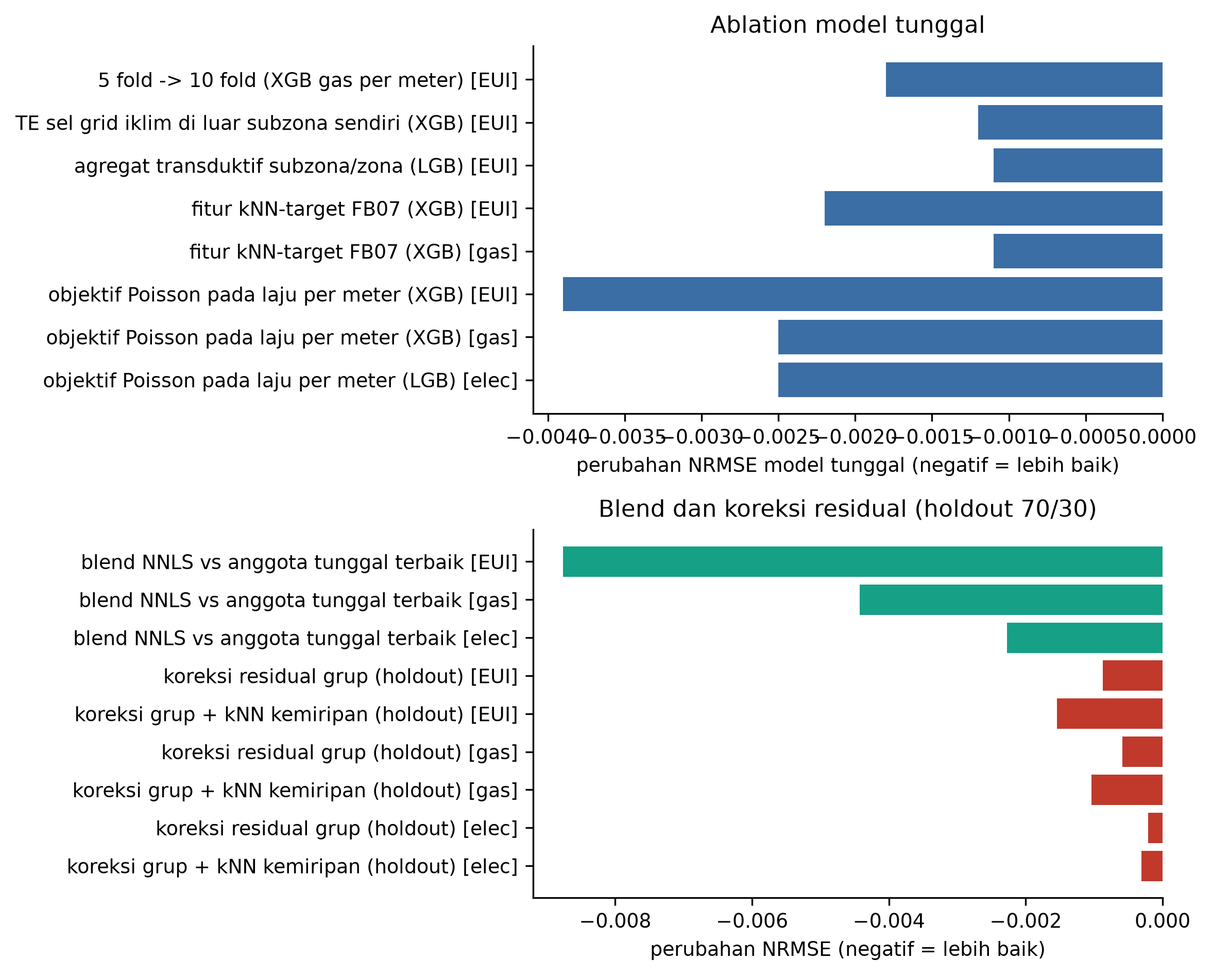
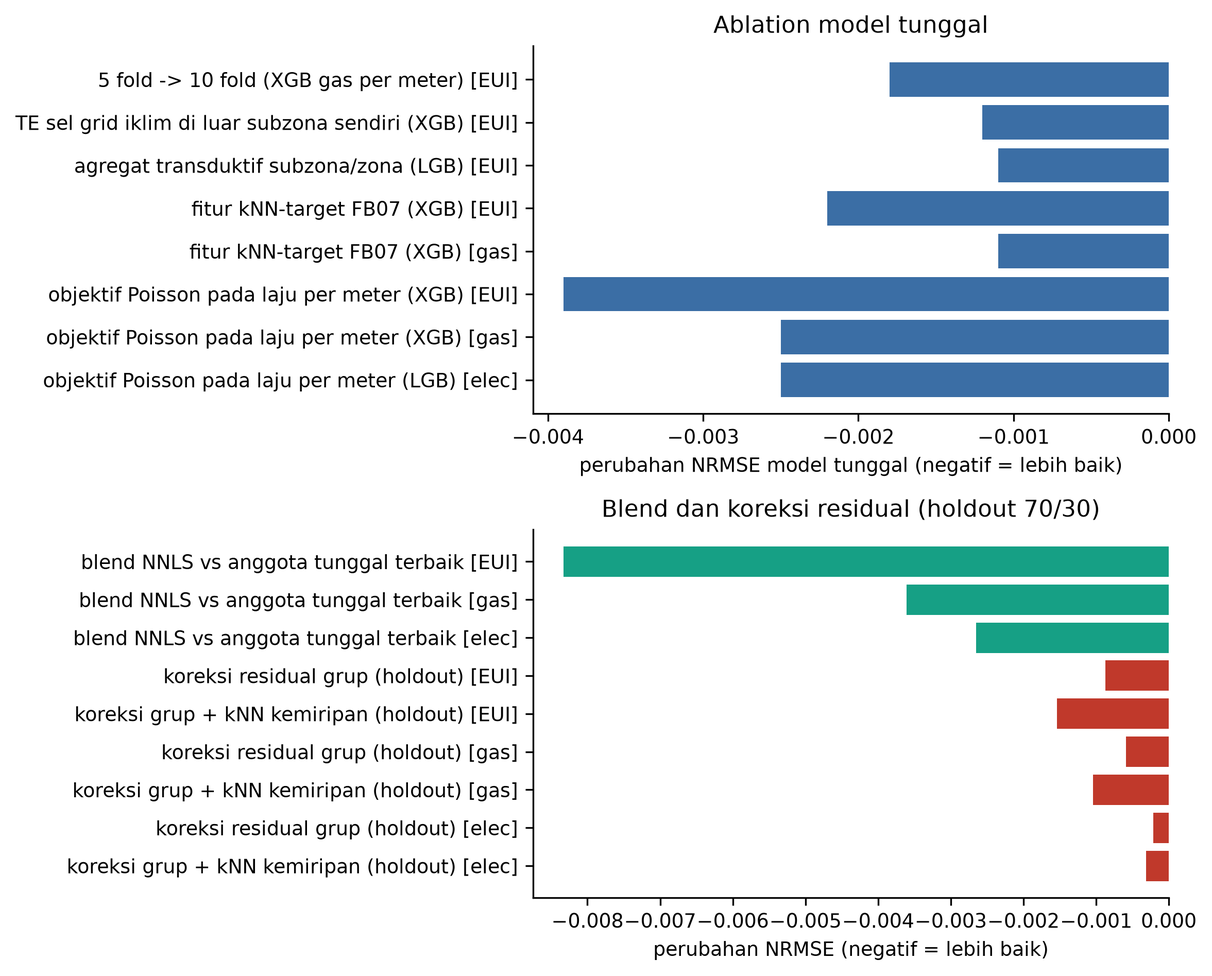
Phase 12: SHAP + policy section, density check of residual-correction weights (keep λ), writeup sections 5-8

diff --git a/src/exp_cv_secondary.py b/src/exp_cv_secondary.py
@@ -1,0 +1,75 @@
+"""CV_SECONDARY robustness check (MASTER_PROMPT V02): one LightGBM screening model (lr 0.1, early stopping on the
+validation fold) with and without the spatial target encodings, scored on CV_PRIMARY (KFold per row, mirrors the
+test split, D001) and on CV_SECONDARY (GroupKFold per zone_region_id, the organisers' suggestion).
+
+It shows how much of the score depends on regions seen in training: under the random row split 92% of test rows
+have their subzone in train, under the zone split none do.
+Outputs: exp/cv2/{oof,pred}/*.npy, exp/cv2/results.jsonl, registry rows E0271-E0278.
+usage: python src/exp_cv_secondary.py [--smoke]
+"""
+import json
+import os
+import sys
+import time
+
+import numpy as np
+import pandas as pd
+
+sys.path.insert(0, os.path.dirname(__file__))
+from common import TARGET_COLS, load, nrmse  # noqa: E402
+from tracking import data_hash, git_commit, now_wib, upsert  # noqa: E402
+from train_lib import Data, run  # noqa: E402
+
+SMOKE = "--smoke" in sys.argv
+OUT = "exp/cv2_smoke" if SMOKE else "exp/cv2"
+P = dict(objective="regression", learning_rate=0.1, num_leaves=255, min_data_in_leaf=100, feature_fraction=0.5,
+         bagging_fraction=0.8, bagging_freq=1, lambda_l2=10.0, max_bin=255, num_threads=12)
+if SMOKE:
+    P.update(learning_rate=0.3, num_leaves=31)
+
+tr, _ = load()
+d = Data(n_folds=5)
+ex, ext = d.agg_features()
+
+
+def folds_from(f):
+    x = pd.read_parquet(f)
+    assert (x["id"].values == tr["id"].values).all()
+    return [(np.where(x["fold"].values != k)[0], np.where(x["fold"].values == k)[0]) for k in sorted(x["fold"].unique())]
+
+
+SCHEMES = {"primary": folds_from("data/folds/folds_primary_k5_s42.parquet"),
+           "secondary": folds_from("data/folds/folds_secondary_k5_s42.parquet")}
+JOBS = [("gpm", 1 / d.A), ("epm", None)]  # gas per meter (weight M^2/A), elec per meter (weight M^2)
+eid = 271
+for scheme, folds in SCHEMES.items():
+    d.folds = folds[:2] if SMOKE else folds
+    for te in (False, True):
+        for kind, wmul in JOBS:
+            name = f"lgb_{kind}_{scheme}_{'te' if te else 'note'}"
+            t0 = time.time()
+            oof, _ = run(d, name, "lgb", kind, P, use_te=te, windows=(2, 10) if te else (), cells=te, out_dir=OUT,
+                         wmul=wmul, extra=ex, extra_t=ext, verbose=False)
+            idx = np.concatenate([b for _, b in d.folds])
+            if kind == "gpm":
+                sc = {"t1": nrmse(tr[TARGET_COLS[0]].values[idx], (oof * d.A)[idx], TARGET_COLS[0]),
+                      "t3": nrmse(tr[TARGET_COLS[2]].values[idx], oof[idx], TARGET_COLS[2])}
+            else:
+                sc = {"t2": nrmse(tr[TARGET_COLS[1]].values[idx], oof[idx], TARGET_COLS[1])}
+            rec = dict(name=name, scheme=scheme, te=te, kind=kind, minutes=round((time.time() - t0) / 60, 1), **sc)
+            print(json.dumps(rec), flush=True)
+            if SMOKE:
+                continue
+            with open(f"{OUT}/results.jsonl", "a") as fh:
+                fh.write(json.dumps(rec) + "\n")
+            upsert(dict(exp_id=f"E{eid:04d}", status="done", phase=2, finished_wib=now_wib(),
+                        hypothesis=f"CV_SECONDARY check: LGB {kind} {'dengan' if te else 'tanpa'} TE spasial, skema {scheme}",
+                        model_family="lgb", device="cpu", targets="t1,t3" if kind == "gpm" else "t2",
+                        target_transform=f"{kind} (ratio to bld_dim_12)", feature_set_id="legacy+agg" + ("+te" if te else ""),
+                        cv_scheme=scheme, fold_file=f"data/folds/folds_{scheme}_k5_s42.parquet", seeds=42,
+                        config_path="src/exp_cv_secondary.py", git_commit=git_commit(), data_hash=data_hash(),
+                        nrmse_t1=sc.get("t1", ""), nrmse_t2=sc.get("t2", ""), nrmse_t3=sc.get("t3", ""),
+                        runtime_min=rec["minutes"], oof_path=f"{OUT}/oof/{name}.npy", test_pred_path=f"{OUT}/pred/{name}.npy",
+                        notes="screening lr 0.1, early stopping on the validation fold (relative comparison only)"))
+            eid += 1
+print("done")

diff --git a/final/make_notebooks.py b/final/make_notebooks.py
@@ -10,12 +10,14 @@ import os
 import sys
 
 import nbformat as nbf
+import yaml
 
 HERE = os.path.dirname(os.path.abspath(__file__))
 TEAM = sys.argv[1] if len(sys.argv) > 1 else os.environ.get("TEAM_NAME", "ISI_NAMA_TIM")
 SRC = ["common.py", "te.py", "train_lib.py", "nn.py", "blend.py", "adopt_v2.py", "dup_fix.py", "postprocess.py",
        "pipeline.py", "inference.py", "metric.py", "seed.py"]
 CONF = ["members.yaml", "resid_knn.json"]
+N_MEMBERS = len(yaml.safe_load(open(os.path.join(HERE, "configs", "members.yaml")))["members"])
 
 SETUP = '''import os, sys, platform, hashlib, json, subprocess, time
 # ---- paths (edit DATA_DIR if the competition CSVs live elsewhere) ----
@@ -65,10 +67,10 @@ def full_notebook():
     nb.cells = [
         md(f"# DICE FEST 2026: The Urban Energy Transition Trilemma ({TEAM})\n\n"
            "Notebook ini mereproduksi submisi final secara deterministik dari `train.csv` dan `test.csv` saja.\n\n"
-           "Alur: 50 model cross-validated (XGBoost CUDA, LightGBM, MLP PyTorch) → blend NNLS per kolom → "
+           f"Alur: {N_MEMBERS} anggota model cross-validated (XGBoost CUDA, LightGBM, MLP PyTorch) → blend NNLS per kolom → "
            "model adopsi pemanas listrik → koreksi residual grup + kNN (bobot beku) → salin target 77 baris duplikat "
            "→ submisi + sha256.\n\n"
-           "Hardware referensi: NVIDIA RTX A4000 16 GB, 16 vCPU, RAM 24 GB. Waktu jalan sekitar 20 jam "
+           "Hardware referensi: NVIDIA RTX A4000 16 GB, 16 vCPU, RAM 32 GB. Waktu jalan sekitar 20 jam "
            "(jalur GPU dan CPU paralel). Untuk verifikasi cepat dari model tersimpan, pakai "
            "`inference_from_artifacts.ipynb`."),
         code(SETUP),

diff --git a/reports/WRITEUP_DRAFT.md b/reports/WRITEUP_DRAFT.md
@@ -11,11 +11,11 @@ Kunci pendekatan kami adalah memahami struktur data sebelum memilih model. Ada t
 - Data test diambil acak per baris, sehingga informasi tingkat wilayah dapat dipakai secara sah.
 
 Di atas fondasi itu kami membangun:
-- [[N_MEMBERS]] model cross-validated (XGBoost, LightGBM, dan MLP dengan embedding periodik);
-- blend non-negatif per kolom;
+- 34 anggota model cross-validated (XGBoost, LightGBM, dan beberapa varian MLP);
+- blend non-negatif per kolom yang dinilai secara nested;
 - koreksi residual berbasis kemiripan stok bangunan di sekitar setiap kawasan.
 
-Skor validasi silang jujur (nested) kami [[CV_FINAL]] dan public leaderboard [[LB_FINAL]]. Seluruh pipeline deterministik: dua run dari kondisi bersih dan satu eksekusi notebook menghasilkan file submisi dengan sha256 yang sama.
+Skor validasi silang nested kami 0,2496 sebelum koreksi residual (sekitar 0,2489 setelah koreksi, diestimasi di holdout internal), dan public leaderboard 0,24943. Sepanjang sepuluh submisi, public LB selalu sama dengan skor CV (ditambah estimasi holdout untuk post-processing) plus selisih tetap 0,0005 (simpangan baku 0,00004). Seluruh pipeline deterministik: run bersih dan eksekusi notebook menghasilkan file submisi dengan sha256 yang sama.
 
 ## 1. Pendahuluan dan pemahaman masalah
 Transisi energi di kota menghadapi tiga tarikan sekaligus:
@@ -29,7 +29,7 @@ Kelima target kompetisi memotret ketiga sisi itu:
 - kualitas stok bangunan (rasio bangunan bersih);
 - penetrasi teknologi baru (adopsi pemanas listrik).
 
-Metrik lomba adalah rata-rata RMSE tiap target dibagi simpangan baku bekunya. Karena dihitung per kolom, setiap target boleh punya pipeline sendiri, dan meminimalkan MSE tiap kolom sama dengan meminimalkan metrik. Prediksi konstan memberi skor sekitar 1,0 per target.
+Metrik lomba adalah rata-rata RMSE tiap target dibagi simpangan baku bekunya. Karena dihitung per kolom, setiap target boleh punya pipeline sendiri, dan meminimalkan MSE tiap kolom sama dengan meminimalkan metrik. Prediksi konstan memberi skor sekitar 1,0 per target. Pada model final kami, EUI menyumbang sekitar 52% galat, listrik 25%, gas 20%, dan adopsi 3%. Prioritas kerja kami mengikuti porsi itu.
 
 ## 2. Data dan eksplorasi
 Train berisi 429.303 baris dan test 183.987 baris. Ada 201 fitur anonim dalam lima keluarga (dimensi bangunan, era konstruksi, bauran pemanas, iklim, sosio-demografi) ditambah dua ID spasial: 330 zona dan sekitar 150 ribu subzona.
@@ -37,10 +37,10 @@ Train berisi 429.303 baris dan test 183.987 baris. Ada 201 fitur anonim dalam li
 Temuan yang paling menentukan arah pemodelan:
 1. **Identitas eksak.**
    - EUI dikali `bld_dim_06` sama dengan gas sampai presisi mesin (selisih relatif maksimum 7e-16). Jadi `bld_dim_06` adalah luas lantai, dan satu model gas sekaligus memberi EUI.
-   - Rasio bangunan bersih sama persis dengan round(100 x `bld_dim_02`/`bld_dim_01`, 2) di 100% baris.
+   - Rasio bangunan bersih sama persis dengan round(100 x `bld_dim_02`/`bld_dim_01`, 2) di 100% baris. Target ini dihitung, bukan diprediksi.
 2. **Adopsi pemanas listrik konstan di dalam subzona** (subzona adalah unit sensus). Bauran pemanas `hvac_dist_*` adalah pecahan cacah per jumlah rumah tangga N, sehingga N bisa direkonstruksi eksak sebagai penyebut terkecil yang membuat semua pecahan bulat. Adopsi sama dengan sisa kategori pemanas dikurangi satu kategori yang hilang.
-3. **Target makro didominasi ukuran kawasan.** Korelasi Spearman gas dengan luas lantai 0,92, dan listrik dengan jumlah meter 0,90. Sebaliknya, EUI hanya berkorelasi lemah dengan fitur tunggal (maksimum 0,18), dan EUI menyumbang sekitar dua pertiga skor tim mana pun.
-4. **Noise label besar.** Varians residual log mengikuti pola a + b/M (M = jumlah meter), khas rata-rata konsumsi rumah tangga. Sekitar tiga perempat varians residual adalah noise yang tidak bisa dijelaskan fitur, sehingga lantai skor dari fitur saja sekitar 0,21.
+3. **Target makro didominasi ukuran kawasan.** Korelasi Spearman gas dengan luas lantai 0,92, dan listrik dengan jumlah meter 0,90. Sebaliknya, EUI hanya berkorelasi lemah dengan fitur tunggal (maksimum 0,18).
+4. **Noise label besar dan terstruktur.** Varians residual log mengikuti pola a + b/M, dengan M jumlah meter (Gambar 2). Pola ini khas rata-rata konsumsi rumah tangga: bila konsumsi tiap rumah tangga bervariasi acak, varians relatif totalnya turun sebanding 1/M. Pada blend final, 73% varians residual gas dan 77% varians residual listrik adalah noise semacam ini, yang tidak bisa dijelaskan fitur apa pun. Lantai skor dari fitur saja sekitar 0,21.
 
 ## 3. Strategi validasi
 Sebelum memilih skema cross-validation, kami memeriksa bagaimana data test dibuat:
@@ -49,9 +49,9 @@ Sebelum memilih skema cross-validation, kami memeriksa bagaimana data test dibua
 - Porsi baris test di subzona yang tidak muncul di train adalah 8,14%, hampir sama dengan harapan split acak per baris (8,17%).
 - Adversarial validation (LightGBM) memberi AUC 0,50, artinya train dan test tidak bisa dibedakan.
 
-Kesimpulannya, test adalah sampel acak 30% per baris. Karena itu CV utama memakai KFold acak per baris (5 dan 10 fold, seed 42), dan statistik tingkat wilayah (target encoding subzona, zona, jendela spasial) sah dipakai selama dihitung out-of-fold.
+Kesimpulannya, test adalah sampel acak 30% per baris. Karena itu CV utama memakai KFold acak per baris (5 dan 10 fold, seed 42), dan statistik tingkat wilayah (target encoding subzona, zona, jendela spasial) sah dipakai selama dihitung out-of-fold. [[CV sekunder per zona: hasil E0271-E0278, seberapa besar skor bergantung pada wilayah yang terlihat di train.]]
 
-CV sekunder dengan fold per zona (saran panitia) kami laporkan sebagai uji ketahanan. Selisih CV dengan public leaderboard stabil di [[N_SUB]] submisi, dan urutan kandidat selalu sama.
+Bukti bahwa CV ini bisa dipercaya datang dari leaderboard (Gambar 3). Pada sepuluh submisi, public LB sama dengan CV nested ditambah estimasi holdout untuk post-processing, plus selisih tetap 0,00052 (simpangan baku 0,00004). Urutan kandidat di CV selalu sama dengan urutan di LB.
 
 ## 4. Rekayasa target dan fitur
 **Formulasi target.** Karena gas = EUI x luas, semua model keluarga gas memprediksi kuantitas per unit lalu dikalikan kembali. Pilihan unitnya beragam:
@@ -61,43 +61,104 @@ CV sekunder dengan fold per zona (saran panitia) kami laporkan sebagai uji ketah
 - per jumlah sertifikat energi;
 - logaritmanya.
 
-Bobot sampel diatur agar loss setara dengan MSE pada skala asli (misalnya bobot M²/A untuk gas per meter). Keragaman formulasi ini ternyata sumber keragaman ensemble terbesar.
+Bobot sampel diatur agar loss setara dengan MSE pada skala asli (misalnya bobot M²/A untuk gas per meter). Keragaman formulasi ini ternyata sumber keragaman ensemble terbesar. Kami juga menguji objektif Poisson (GLM laju dengan eksposur). Pada model tunggal GBM gain-nya besar (EUI 0,0039, gas 0,0025), tetapi di blend hanya 0,00004 karena ensemble sudah menyerap efek yang sama, sehingga tidak kami masukkan ke pipeline final.
 
 **Fitur.**
-- Rasio fisik (luas per meter, faktor bentuk).
-- Agregat transductive per subzona dan zona (jumlah baris, total luas, porsi baris).
+- Rasio fisik (luas per meter, luas per sertifikat, faktor bentuk).
+- Agregat transduktif per subzona dan zona dari baris train dan test (jumlah baris, total luas, porsi baris). Tidak memakai target.
 - Target encoding out-of-fold untuk subzona, zona, jendela ±2 dan ±10 nomor subzona (yang berurutan secara spasial), serta sel grid iklim di luar subzona sendiri.
 - **Fitur kNN-target (FB07):** rata-rata target dari k kawasan dengan stok bangunan paling mirip dalam jendela spasial. Pada XGBoost tunggal fitur ini menurunkan NRMSE gas 0,0011 dan EUI 0,0022, membaik di kelima fold.
 
 Semua fitur bertarget dihitung dengan cross-fitting dan lulus uji kebocoran: label baris validasi diacak, lalu fitur validasi diperiksa tetap identik.
 
 ## 5. Pemodelan
-[[Tabel keluarga model x target, jumlah anggota, waktu.]]
-- XGBoost (CUDA, deterministik), LightGBM (CPU, deterministic=True), dan MLP PyTorch dengan embedding periodik (PLR), TabM-mini, serta MLP multi-task yang mempelajari gas dan listrik bersamaan.
-- MLP dilatih dengan jumlah epoch tetap (one-cycle), tanpa memilih epoch dari fold validasi, sehingga OOF tetap jujur.
-- CatBoost GPU diuji dan kuat, tetapi tidak deterministik, sehingga dikeluarkan dari pipeline final dengan biaya CV sekitar 0,00001.
+Tabel 1 merangkum 34 anggota blend final. Satu MLP multi-task mempelajari gas dan listrik sekaligus, sehingga jumlah jaringan yang dilatih 33.
+
+**Tabel 1.** Anggota blend final per keluarga (NRMSE OOF; bobot = porsi bobot NNLS).
+
+| Keluarga | Anggota gas/EUI | Anggota listrik | Terbaik EUI (gas) | Terbaik listrik | Bobot gas / EUI / listrik |
+|---|---|---|---|---|---|
+| XGBoost (CUDA) | 12 | 5 | 0,6598 (0,2504) | 0,3221 | 43% / 52% / 20% |
+| LightGBM | 4 | 3 | 0,6602 (0,2504) | 0,3221 | 11% / 11% / 17% |
+| MLP | 2 | 1 | 0,6677 (0,2530) | 0,3213 | 8% / 4% / 6% |
+| MLP + embedding PLR | 3 | 1 | 0,6594 (0,2489) | 0,3189 | 29% / 19% / 18% |
+| TabM-mini | 0 | 1 | | 0,3199 | 0 / 0 / 11% |
+| MLP multi-task | 1 | 1 | 0,6593 (0,2490) | 0,3187 | 9% / 14% / 28% |
+
+- XGBoost memakai `hist` di CUDA dan LightGBM `deterministic=True`. 27 anggota dilatih 10-fold dan 7 anggota 5-fold, dengan split fold yang sama (KFold seed 42).
+- MLP (PyTorch) dilatih tiga seed dengan jumlah epoch tetap pada jadwal one-cycle, tanpa memilih epoch dari fold validasi, sehingga OOF tetap jujur. Varian PLR memakai embedding periodik untuk fitur numerik. TabM-mini memakai 16 adapter berbagi bobot.
+- CatBoost GPU diuji dan kuat, tetapi tidak deterministik antar run, sehingga dikeluarkan dari pipeline final. Biayanya di CV sekitar 0,00001.
 
 ## 6. Ensemble dan koreksi residual
-- Blend memakai non-negative least squares per kolom yang dinilai, dengan bobot dari prediksi OOF. Kami membandingkannya dengan hill climbing, rata-rata top-N, Ridge positif, stacking LightGBM, dan MLP level-2; [[hasil EN]].
-- Koreksi residual: residual OOF blend masih berkorelasi spasial. Prediksi test digeser oleh kombinasi linear rata-rata residual (yang di-shrink) dari zona yang sama, sel iklim yang sama, jendela ±30 subzona, dan k tetangga dengan stok bangunan paling mirip. Bobot kombinasinya di-fit pada holdout internal 70/30, tidak pada OOF penuh yang bias. [[gain holdout]].
-- Adopsi: untuk subzona yang ada di train, nilainya disalin. Untuk 8% baris di subzona baru, cacah kategori hilang dimodelkan secara binomial dengan LightGBM.
-- 77 baris test identik dengan baris train, dan targetnya disalin.
+**Blend.** Bobot non-negative least squares di-fit per kolom yang dinilai: gas dengan skala baris luas lantai, EUI dan listrik langsung. Anggota dipilih secara greedy maju-mundur dengan skor blend nested (bobot di-fit di fold lain, dinilai di fold yang tidak ikut fitting). Stacking level-2 dengan LightGBM, blend per kelompok ukuran kawasan, dan bobot dari holdout tidak lebih baik dari NNLS (selisih paling banyak 0,00006). Blend memperbaiki anggota tunggal terbaik sebesar 0,0083 pada EUI, 0,0036 pada gas, dan 0,0027 pada listrik.
+
+**Koreksi residual.** Residual OOF blend ternyata masih berkorelasi di antara kawasan yang berdekatan dan mirip stok bangunannya. Prediksi test digeser oleh kombinasi linear rata-rata residual (di-shrink n/(n+k)) dari:
+- zona yang sama dan sel iklim yang sama;
+- jendela ±30 nomor subzona;
+- k kawasan dengan stok bangunan paling mirip dalam jendela spasial (lima sampai enam konfigurasi ruang kemiripan, lebar jendela, dan k per metrik).
+
+Bobot kombinasinya di-fit pada holdout internal 70/30: baris holdout berperan sebagai baris test, dan tetangganya hanya diambil dari bagian 70% dengan residual OOF yang tidak pernah melihat label holdout. Bobot tidak di-fit di OOF penuh, karena di sana residual tetangga sudah tercemar lewat target encoding. Gain di holdout: gas 0,24643 → 0,24539, EUI 0,65115 → 0,64961, listrik 0,31508 → 0,31477, atau sekitar 0,0006 pada skor total (Gambar 5).
+
+**Adopsi dan duplikat.** Untuk subzona yang ada di train, nilai adopsi disalin. Untuk 8% baris di subzona baru, cacah kategori pemanas yang hilang dimodelkan sebagai binomial dengan LightGBM (objektif cross-entropy, bobot cacah, fitur N dan proporsi tetangga). Terakhir, 77 baris test identik dengan baris train pada subzona, jumlah meter, jumlah sertifikat, luas lantai, dan satu fitur sensus yang hampir unik. Semua 92 grup duplikat di train punya target identik, sehingga target baris itu disalin.
 
 ## 7. Hasil dan ablation
-[[Tabel: baseline B0-B6 di CV primer/sekunder, transform T0-T8, ablation keluarga fitur, model zoo, ensemble, CV vs LB.]]
+**Tabel 2.** Perkembangan dari baseline ke model final (NRMSE, CV primer 5-fold untuk baseline, nested 10-fold untuk final).
+
+| Model | t1 gas | t2 listrik | t3 EUI | t4 bersih | t5 adopsi | Rata-rata |
+|---|---|---|---|---|---|---|
+| B0 rata-rata | 1,0000 | 1,0000 | 1,0001 | 1,0001 | 1,0007 | 1,0002 |
+| B1 Ridge | 0,3114 | 0,3556 | 0,7929 | 0,2648 | 0,2759 | 0,4001 |
+| B4 XGBoost | 0,2631 | 0,3301 | 0,6865 | 0,0158 | 0,0950 | 0,2781 |
+| B6 MLP multi-output | 0,2654 | 0,3276 | 0,6903 | 0,0539 | 0,1478 | 0,2970 |
+| Final: blend nested | 0,2452 | 0,3161 | 0,6510 | 0 | 0,0357 | 0,2496 |
+| Final + koreksi residual (estimasi holdout) | | | | | | 0,2489 |
+
+Public LB model final: 0,24943.
+
+Ablation model tunggal yang paling berpengaruh (Gambar 5):
+- 10 fold dibanding 5 fold: EUI -0,0018, gas -0,0010 (lebih banyak data latih dan encoding subzona yang lebih kaya).
+- Target encoding sel grid iklim di luar subzona sendiri: EUI -0,0012.
+- Agregat transduktif subzona/zona: EUI -0,0011.
+- Fitur kNN-target: EUI -0,0022, gas -0,0011.
+- Objektif Poisson: EUI -0,0039, gas -0,0025, listrik -0,0025 (model tunggal), tetapi blend hanya -0,00004.
+
+Yang tidak berhasil (semua tercatat di registry):
+- Stacking level-2, blend per ukuran kawasan, dan blend terpisah untuk subzona baru.
+- Loss Poisson pada MLP (EUI memburuk 0,0045).
+- 20 fold dibanding 10 fold: OOF terlihat membaik, tetapi holdout tidak.
+- Koreksi residual lintas target (residual listrik untuk gas dan sebaliknya): gain nol.
+- Pencarian kebocoran (urutan ID, nilai gas "kembar", relasi rasio antar kolom): hanya 77 baris duplikat yang bisa dimanfaatkan.
 
 ## 8. Interpretasi kebijakan
-[[SHAP per keluarga fitur per target dan tiga dilema: skala vs intensitas termal (gas vs EUI), beban jaringan (listrik dan adopsi), kesenjangan adopsi dan tenure.]]
+Kami menghitung TreeSHAP pada 30 ribu baris validasi untuk model LightGBM per target (Gambar 6 sampai 8): log EUI (t3, sekaligus t1 = EUI x luas), log listrik per meter (t2), dan adopsi (t5). Rasio bangunan bersih (t4) adalah identitas eksak, jadi tidak perlu model. Nama fitur dianonimkan panitia, sehingga makna kolom di bawah ini kami simpulkan dari sebaran nilainya dan kami tulis sebagai dugaan.
+
+Porsi |SHAP| per keluarga fitur:
+
+| Target | Rasio fisik | Sosio-demografi | Target encoding spasial | Dimensi bangunan | Era bangunan | Bauran pemanas |
+|---|---|---|---|---|---|---|
+| t3 EUI | 25% | 25% | 19% | 10% | 11% | 2% |
+| t2 listrik per meter | 29% | 35% | 13% | 11% | 5% | 2% |
+| t5 adopsi | 45% (sisa pangsa pemanas) | 21% | 3% | 1% | 0% | 27% |
+
+**Dilema 1: skala vs intensitas termal (t1 vs t3).** Gas total terutama mengikuti ukuran kawasan (luas lantai dan jumlah meter). Sebaliknya, EUI turun tajam seiring luas per meter: kawasan dengan hunian kecil (sekitar 20 m² per meter) punya intensitas gas per m² lebih dari dua kali kawasan dengan hunian besar (200 m² per meter). Porsi bangunan era tertentu (`bld_era_09` dan `bld_era_15`) juga masuk fitur teratas. Implikasinya, program yang mengejar penurunan emisi absolut dan program yang mengejar efisiensi per m² akan memilih kawasan yang berbeda. Daftar prioritas sebaiknya dibuat terpisah untuk kedua tujuan itu.
+
+**Dilema 2: beban jaringan listrik (t2 dan t5).** Listrik per meter naik hampir linear dengan luas hunian per meter. Fitur sisa pangsa pemanas (100 dikurangi semua kategori `hvac_dist`, yang sebagian besar adalah pemanas listrik) juga termasuk pendorong utama. Kawasan dengan hunian besar dan pemanas listrik tinggi adalah kawasan dengan beban per meter terbesar, sehingga paling rawan kemacetan gardu ketika elektrifikasi pemanas dipercepat.
+
+**Dilema 3: kesenjangan adopsi (t5).** Adopsi pemanas listrik paling ditentukan oleh infrastruktur pemanas yang sudah ada. Setelah sisa pangsa pemanas, pendorong terkuat adalah `hvac_dist_02` (rata-rata 82%, kemungkinan pangsa pemanas gas sentral). Di kawasan dengan pangsa ini di bawah 40%, kontribusinya ke adopsi mencapai +5 sampai +15 poin persen, sedangkan di kawasan yang hampir sepenuhnya memakai gas kontribusinya negatif. Faktor sosio-demografi baru menyusul (21% porsi |SHAP|). Artinya, adopsi saat ini terkonsentrasi di kawasan yang memang belum terhubung kuat ke jaringan gas. Mendorong elektrifikasi di kawasan yang sangat bergantung pada gas butuh insentif yang berbeda dari kawasan yang sudah terbiasa dengan pemanas listrik.
+
+Keluarga sosio-demografi menyumbang seperempat sampai sepertiga porsi |SHAP| untuk EUI dan listrik. Konsumsi energi kawasan tidak hanya soal fisik bangunan, tetapi juga komposisi penghuninya.
 
 ## 9. Reproducibility
-- Seed dikunci di semua tahap, tidak ada batas waktu, dan versi paket dipin.
-- Notebook mandiri menyematkan seluruh kode.
-- Dua run bersih dan satu eksekusi notebook headless memberi sha256 [[SHA]].
-- Notebook kedua membuat ulang submisi yang sama dari model tersimpan dalam waktu jauh lebih singkat.
+- Seed dikunci di semua tahap (split, model, PyTorch), tidak ada batas waktu training, urutan kolom diambil dari list yang di-sort, dan versi paket dipin di `final/requirements.txt`.
+- Determinisme diuji per keluarga model: XGBoost CUDA, LightGBM CPU, dan semua varian MLP memberi hasil identik byte antar run. CatBoost GPU tidak, sehingga dikeluarkan.
+- `final/run_all.py` adalah satu pintu dari data mentah ke submisi. Notebook utama menyematkan seluruh kode sumber yang sama dan menjalankannya dari kondisi bersih.
+- Run bersih dan eksekusi notebook memberi sha256 [[SHA]], identik dengan submisi yang diunggah.
+- Notebook kedua membuat ulang submisi yang sama dari model tersimpan (dengan checksum) dalam waktu jauh lebih singkat, sebagai cadangan bila juri tidak bisa melatih ulang penuh.
 
 ## 10. Keterbatasan dan pengembangan
 - Sekitar 75% varians residual gas dan listrik berasal dari rata-rata rumah tangga yang tidak teramati. Perbaikan berikutnya butuh data per rumah tangga, bukan model yang lebih besar.
-- Pipeline penuh butuh [[jam]] di satu GPU.
+- Interval prediksi per kawasan bisa diturunkan langsung dari pola a + b/M. Ini berguna bagi perencana jaringan untuk mengetahui kawasan mana yang prediksinya kurang pasti.
+- Pipeline penuh butuh [[jam]] di satu GPU RTX A4000. Untuk penggunaan operasional, subset anggota dengan bobot terbesar memberi hampir seluruh skor dengan waktu jauh lebih singkat.
 
 ## 11. Kesimpulan
-[[ringkasan]]
+Skor kami datang dari tiga keputusan. Pertama, mencari struktur fisik sebelum memodelkan: dua target selesai tanpa model, dan gas serta EUI berbagi satu model. Kedua, membangun validasi yang meniru cara test dibuat, lalu membuktikannya di leaderboard: selisih CV dan LB tetap di sepuluh submisi. Ketiga, menilai setiap komponen secara jujur, dari bobot blend yang nested sampai bobot koreksi residual yang di-fit di holdout. Dengan sekitar tiga perempat galat tersisa berupa noise rata-rata rumah tangga, kami yakin skor ini dekat dengan batas yang bisa dicapai dari data yang tersedia.

diff --git a/reports/PRESENTATION_OUTLINE.md b/reports/PRESENTATION_OUTLINE.md
@@ -39,7 +39,7 @@ Figur ada di `reports/figures/` (300 dpi). Angka bertanda [[...]] diisi setelah 
 
 ### Slide 6. Ensemble dan koreksi residual (1,5 menit)
 - [[N_MEMBERS]] anggota: XGBoost, LightGBM, MLP, MLP dengan embedding periodik (PLR), TabM-mini, MLP multi-task.
-- Blend NNLS per kolom, dinilai secara nested. Blend memperbaiki anggota terbaik: EUI 0,0088, gas 0,0044, listrik 0,0023.
+- Blend NNLS per kolom, dinilai secara nested. Blend memperbaiki anggota tunggal terbaik: EUI 0,0083, gas 0,0036, listrik 0,0027.
 - Koreksi residual: residual blend masih berkorelasi antar kawasan yang mirip dan berdekatan. Prediksi digeser oleh rata-rata residual (di-shrink) dari zona, sel iklim, jendela subzona, dan k tetangga paling mirip. Bobotnya di-fit di holdout internal 70/30, bukan di OOF penuh yang bias.
 - Figur: `fig4_blend_weights.png`, `fig5_gains.png` (panel bawah).
 
@@ -50,10 +50,11 @@ Figur ada di `reports/figures/` (300 dpi). Angka bertanda [[...]] diisi setelah 
 - Figur: `fig3_cv_lb.png`.
 
 ### Slide 8. Insight kebijakan (1,5 menit)
-- [[Isi dari SHAP per keluarga fitur, figur shap_t3.png, shap_t2.png, shap_t5.png]]
-- Dilema 1, skala vs intensitas termal: gas total digerakkan ukuran kawasan (luas lantai, jumlah meter), sedangkan EUI digerakkan [[keluarga utama EUI]].
-- Dilema 2, beban jaringan listrik: [[pendorong listrik per meter dan kaitannya dengan adopsi pemanas listrik]].
-- Dilema 3, kesenjangan adopsi: [[pendorong adopsi, tenure dan sosio-demografi]].
+- Figur: `shap_t3.png`, `shap_dep_t3.png`, `shap_dep_t5.png` (TreeSHAP LightGBM, 30 ribu baris validasi).
+- Dilema 1, skala vs intensitas termal: gas total mengikuti ukuran kawasan, tetapi EUI turun tajam dengan luas hunian per meter. Kawasan hunian kecil punya intensitas gas per m² lebih dari dua kali kawasan hunian besar. Prioritas "emisi absolut" dan "efisiensi per m²" memilih kawasan yang berbeda.
+- Dilema 2, beban jaringan: listrik per meter naik hampir linear dengan luas hunian dan dengan pangsa pemanas listrik. Kawasan hunian besar dengan pemanas listrik tinggi paling rawan kemacetan gardu saat elektrifikasi dipercepat.
+- Dilema 3, kesenjangan adopsi: adopsi pemanas listrik paling ditentukan infrastruktur pemanas yang sudah ada (pangsa pemanas gas sentral di bawah 40% menambah adopsi 5 sampai 15 poin). Sosio-demografi baru menyusul (21% porsi |SHAP|).
+- Catatan pembicara: sebut bahwa nama fitur dianonimkan, jadi makna kolom adalah dugaan dari sebaran nilai. Keluarga sosio-demografi menyumbang seperempat sampai sepertiga porsi |SHAP| untuk EUI dan listrik: konsumsi energi bukan hanya soal fisik bangunan.
 
 ### Slide 9. Kesimpulan dan pengembangan (30 detik)
 - Tiga pelajaran: (1) cari struktur fisik dulu, (2) bangun validasi yang meniru test lalu buktikan dengan LB, (3) nilai ensemble dan post-processing secara jujur.
@@ -92,7 +93,7 @@ Figur ada di `reports/figures/` (300 dpi). Angka bertanda [[...]] diisi setelah 
     Saat fitting bobot, baris holdout berperan sebagai baris test: tetangganya hanya diambil dari bagian 70%, dengan residual OOF yang tidak pernah melihat label holdout. Saat inferensi, tetangga diambil dari residual OOF train. Bobot tidak pernah di-fit di OOF penuh karena di sana residual tetangga sudah tercemar lewat target encoding.
 
 11. **Insight kebijakan apa yang didapat?**
-    [[Diisi dari SHAP: tiga dilema.]]
+    Tiga hal. Intensitas gas per m² paling tinggi di kawasan hunian kecil, jadi target efisiensi dan target emisi absolut perlu daftar prioritas berbeda. Beban listrik per meter paling besar di kawasan hunian besar dengan pemanas listrik, yang perlu diperhatikan saat elektrifikasi pemanas dipercepat. Adopsi pemanas listrik saat ini lebih ditentukan oleh infrastruktur gas yang sudah ada daripada faktor sosio-demografi, sehingga kawasan yang sangat bergantung pada gas butuh insentif khusus.
 
 12. **Berapa lama pipeline berjalan dan butuh hardware apa?**
     [[jam]] di satu RTX A4000 16 GB dan 16 core CPU. Notebook kedua membuat ulang submisi yang sama dari model tersimpan dalam waktu jauh lebih singkat.

diff --git a/reports/STATUS.md b/reports/STATUS.md
@@ -1,23 +1,21 @@
-# STATUS (diperbarui: 2026-10-17 09:00 WIB)
+# STATUS (diperbarui: 2026-10-17 11:25 WIB)
 STATUS: BERJALAN
-Fase aktif / gerbang berikutnya: Fase 11 (run #1 final v16) + Fase 3/8 (A/B Poisson) / G2 17 Okt malam
-Fase selesai: Fase 0, Fase 1; FREEZE v16 (D006, tag freeze-v16)
-Insiden: 16 Okt ~20:40 WIB run #1 + E0260 kehabisan RAM (24 GB), container restart ~00:00. RAM sekarang 32 GB.
+Fase aktif / gerbang berikutnya: Fase 11 (run #1 final v16) + Fase 12 (figur, SHAP, writeup, presentasi) / G2 17 Okt malam
+Fase selesai: Fase 0, Fase 1; FREEZE v16 (D006, tag freeze-v16); v17 Poisson ditolak (D007)
+Insiden: 16 Okt ~20:40 WIB run #1 + E0260 kehabisan RAM (24 GB), container restart ~00:00. RAM sekarang 32 GB. 17 Okt 04:05 semua job nohup mati serentak.
 Job berjalan:
-- run #1 final v16: unit systemd dice-run1 (resume 08:55 WIB setelah job mati serentak 04:05), log logs/run1.log + final/work/run1/lane_*.log, output final/output/submission_run1.csv
-- A/B Poisson E0260-E0265 SELESAI: Poisson menang (LGB E0262, XGB E0264/E0265)
-- anggota Poisson v17 (GPU): unit systemd dice-v17, logs/v17_pois_chain.sh, status logs/v17_pois_guard.log, log logs/v17_<mode>_<name>.log
+- run #1 final v16: unit systemd dice-run1, jalur GPU dilanjutkan 11:11 (dijeda 02:24-11:11 untuk v17), jalur CPU selesai. Log logs/run1.log + final/work/run1/lane_*.log, output final/output/submission_run1.csv. Sisa: 14 anggota XGB + 7 NN, ETA sekitar 21:30 WIB.
+- SHAP (src/interpret.py): unit dice-shap, log logs/interpret.log
 - queue worker CPU/GPU: STOP (sengaja, selama run audit)
-Cek job: systemctl status dice-run1 dice-v17. Selalu luncurkan job panjang dengan systemd-run (nohup setsid ikut terbunuh).
-Catatan lingkungan: nvidia-smi gagal (NVML 595 vs kernel 580), tetapi torch/XGBoost CUDA berjalan (A4000, 16,6 GB free).
-Terbaik CV_PRIMARY: v16 blend honest 0,242467 (34 anggota) | t1 0,2452 | t2 0,3157 | t3 0,6517 | t4 0 | t5 sekitar 0,036
-Holdout rantai penuh v16 (blend + koreksi grup/kNN): gas 0,24539, EUI 0,64961, elec 0,31477 (ekspektasi LB sekitar 0,2490)
-BEST_CURRENT.csv: sub_v16dev, sha256 e9375ba6...9a7f, public LB 0,24943 (terbaik; v15ncrkd 0,24954)
-Kompetitor di public LB: 0,23666 (user, 17 Okt dini hari).
+Cek job: systemctl status dice-run1. Selalu luncurkan job panjang dengan systemd-run (nohup setsid ikut terbunuh).
+Terbaik CV_PRIMARY: ENS0018 v16 blend honest 0,24960 (5 target) | t1 0,24524 | t2 0,31608 | t3 0,65101 | t4 0 | t5 0,0357
+Holdout rantai penuh v16 (blend + koreksi grup/kNN): gas 0,24539, EUI 0,64961, elec 0,31477
+BEST_CURRENT.csv: sub_v16dev, sha256 e9375ba6...9a7f, public LB 0,24943 (peringkat 6 public; klaster legit 0,248-0,250)
+Figur Fase 12: reports/figures/fig1-fig5 (src/make_figures.py); outline presentasi: reports/PRESENTATION_OUTLINE.md
 5 langkah berikutnya:
 1. Pantau run #1 (final/work/run1/lane_*.log); setelah selesai bandingkan submission_run1.csv dengan sub_v16dev (sha256 harus identik)
-2. Anggota Poisson v17 (src/exp_v17_pois.py): rantai GPU logs/v17_pois_chain.sh (xp_gpm, xp_eui, xp_epm; full + hold), status logs/v17_pois_guard.log; lp_gpm, lp_epm setelah jalur CPU run #1 selesai
-3. Holdout: fit ulang λ (src/resid_knn.py fit), seleksi anggota (exp/analysis/select_v16.py versi v17), bandingkan rantai penuh v17 vs v16
-4. Bila v17 lebih baik: freeze v17 (members.yaml + resid_knn.json), notebook headless + run_all, paling lambat mulai 18 Okt
-5. Paket final, laporan Fase 12
-Risiko / blocker / NEEDS_USER: TEAM_NAME belum diisi; format writeup di guidebook Drive tidak terbaca
+2. Nama tim (NEEDS_USER) -> make_notebooks.py, lalu notebook headless sebagai run kedua (sekitar 20 jam GPU)
+3. Writeup: isi bagian 5-8 dan 11 (tabel model, hasil ablation, SHAP, kesimpulan), FINAL_REPORT.md
+4. Final B: varian dari run yang sama (mis. tanpa koreksi kNN) atau v15nc; putuskan D-FINAL
+5. Paket final + checklist NEEDS_USER paling lambat 23 Okt 12:00
+Risiko / blocker / NEEDS_USER: TEAM_NAME belum dikonfirmasi (dugaan: BISMILLAH dari leaderboard); format writeup di guidebook Drive tidak terbaca

diff --git a/reports/JOURNAL.md b/reports/JOURNAL.md
@@ -218,3 +218,22 @@
 - Noise floor pada blend v16: gas a = 0,0093, b = 0,367 (73% varians residual adalah noise rata-rata rumah tangga); elec a = 0,0116, b = 0,577 (77%).
 - CV vs LB (10 submisi): public LB = CV nested + estimasi holdout post-processing + 0,00052 (sd 0,00004).
 - src/interpret.py (LightGBM TreeSHAP, 30 ribu baris fold 0) berjalan di unit dice-shap.
+
+### [2026-10-17 13:40 WIB] Analisis | kepadatan tetangga koreksi residual (λ di test)
+- Hipotesis: λ di-fit dengan kumpulan tetangga P (49% dari total baris), sedangkan di test kumpulannya seluruh train (70%), 1,43x lebih padat. λ mungkin terlalu kecil untuk test.
+- Setup (scratchpad density.py, holdout P70/H30, anggota holdout sama dengan xtarget): fitur koreksi dihitung dengan subsampel 70% dari P sebagai kumpulan tetangga, λ di-fit di H (cross-fitted 5-fold), lalu diterapkan ke fitur dari kumpulan P penuh dengan skala 1,0 sampai 1,6.
+- Hasil (NRMSE H):
+
+  | Metrik | tanpa koreksi | kumpulan 70% | kumpulan 100% | λ70 di fitur 100% (x1,0) | x1,1-1,2 |
+  |---|---|---|---|---|---|
+  | gas | 0,24638 | 0,24567 | 0,24538 | 0,24540 | 0,24538 |
+  | EUI | 0,65109 | 0,64995 | 0,64959 | 0,64961 | 0,64959 |
+  | elec | 0,31503 | 0,31489 | 0,31475 | 0,31479 | 0,31478 |
+
+- Kesimpulan: gain koreksi naik dengan kepadatan (gas -0,00029, EUI -0,00036, elec -0,00014 dari 70% ke 100%), dan λ dari kumpulan yang lebih jarang hampir optimal di kumpulan yang lebih padat (rugi <= 0,00004 per metrik, skala 1,1-1,2 memulihkan <= 0,00001 total). λ tidak diubah. Estimasi holdout untuk gain koreksi di test bersifat konservatif.
+
+### [2026-10-17 13:40 WIB] Fase 12 | SHAP selesai
+- src/interpret.py: reports/figures/shap_t3|t2|t5.png + shap_dep_*.png, reports/shap_family.csv, reports/shap_top_features.csv.
+- Porsi |SHAP| per keluarga: EUI sosio 25%, rasio fisik 25%, TE spasial 19%, era 11%, dimensi 10%; listrik per meter sosio 35%, rasio fisik 29%, TE 13%; adopsi sisa pangsa pemanas 45%, hvac_dist 27%, sosio 21%.
+- Fitur teratas: area_per_meter (EUI turun tajam, listrik per meter naik hampir linear), s002_ratio, area_per_epc, meters_per_epc; adopsi: hvac_rest, hvac_dist_02 (rata-rata 82%, dugaan pangsa gas sentral; < 40% menambah adopsi 5-15 poin).
+- Writeup bagian 8 dan slide 8 diisi (tiga dilema kebijakan).
